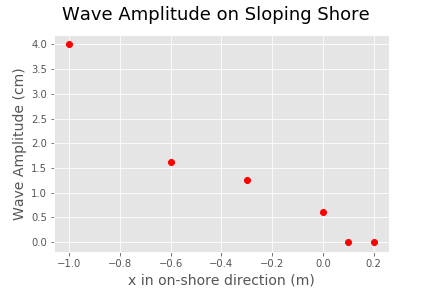
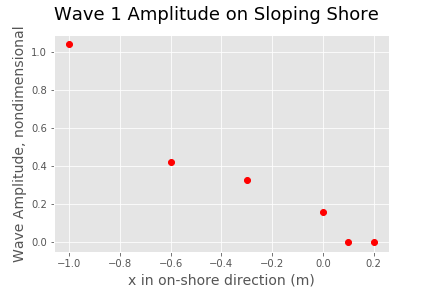
working on lab 3 still, trying to figure out theoretical graphs

Changed region(s): [[0.1204, 0.0, 0.8727, 0.0938], [0.0301, 0.0938, 0.1204, 0.9062]]

diff --git a/Lab_3.md b/Lab_3.md
@@ -33,80 +33,26 @@ The hydraulic-powered wave paddle in the DeFrees Lab was used to generate waves 
 | 0.1   | 19.2     | 1.92                                 |
 
 
-##### Non-dimensional plot of shoaling formula
+##### Non-dimensional plot of shoaling formula with experimental data
+
+Experimental data was compared with theoretical calculations using the shoaling formula.
 
 $$ C_{p0} = \frac{\lambda_0}{T} $$
 $$ T = \frac{1}{frequency} $$
 
-$$ C_{p1} = (1 + \frac{4\pi \frac{h}{\lambda}}{sinh(4\pi \frac{h}{\lambda})})(\frac{gT}{2\pi})tanh(\frac{2\pi h}{\lambda}) $$
-from Chapter 3 of the Coastal Engineering Manual, page II-3-13.
-
-```python
-slope = 1/10
-SWL_cm = 19.2
-H0_cm = np.array([7.7, 7.1, 4.5, 2.9])
-x_amp_m = np.array([-1, -0.6, -0.3, 0, 0.1, 0.2])
-W1_amp_cm = np.array([4.00, 1.63, 1.25, 0.6, 0, 0])
-W2_amp_cm = np.array([4.25, 1.90, 1.55, 1.10, 0.85, 0.3])
-W3_amp_cm = np.array([2.25, 2.05, 1.65, 0.9, 0.35, 0.25])
-W4_amp_cm = np.array([1.5, 1.7, 1.1, 0.75, 0.5, 0.25])
-W_lambda_cm = np.array([88.8, 148.75, 270.72, 270.72])
-freq = np.array([1.25, 0.85, 0.5, 0.5])
-T = 1/freq
-
-Cg0 = W_lambda_cm/T
-print(Cg0)
-```
 Constant width in the flume was assumed.
 
 In shallow water,
+
+$$ C_{g0} = C_{p0} $$
+$$ C_{p0} = \frac{\lambda_0}{T} $$
 $$ \frac{a(x)}{a_0} = \sqrt(\frac{C_{g0}}{\sqrt(gh(x))}) $$
 
-```Python
-h = np.linspace(0.001, 2, num = 50)
-h_h0 = h/(SWL_cm/100)
-```
+In transitional water, $C_{g0}$ changes by
+$$ n = \frac{1}{2}[1 + \frac{2kh}{sinh(2kh)}] $$
+$$ C_{g0} = nC_{p0} $$
 
-The nondimensional form is calculated by
-```Python
-W1_amp_nd = np.sqrt(Cg0[0])/(g.magnitude * h)**(1/4)
-W2_amp_nd = np.sqrt(Cg0[1])/(g.magnitude * h)**(1/4)
-W3_amp_nd = np.sqrt(Cg0[2])/(g.magnitude * h)**(1/4)
-W4_amp_nd = np.sqrt(Cg0[3])/(g.magnitude * h)**(1/4)
-
-plt.plot(h_h0, W1_amp_nd)
-plt.xlabel('Nondimensional Water Depth, h(x)/h0', fontsize=14)
-plt.ylabel('Nondimensional Shoaling Formula', fontsize=14)
-plt.suptitle('', fontsize=18)
-plt.savefig('W1_amp_nd.png')
-plt.show()
-
-plt.plot(h_h0, W2_amp_nd)
-plt.xlabel('Nondimensional Water Depth, h(x)/h0', fontsize=14)
-plt.ylabel('Nondimensional Shoaling Formula', fontsize=14)
-plt.suptitle('', fontsize=18)
-plt.savefig('W2_amp_nd.png')
-plt.show()
-
-plt.plot(h_h0, W3_amp_nd)
-plt.xlabel('Nondimensional Water Depth, h(x)/h0', fontsize=14)
-plt.ylabel('Nondimensional Shoaling Formula', fontsize=14)
-plt.suptitle('', fontsize=18)
-plt.savefig('W3_amp_nd.png')
-plt.show()
-
-plt.plot(h_h0, W4_amp_nd)
-plt.xlabel('Nondimensional Water Depth, h(x)/h0', fontsize=14)
-plt.ylabel('Nondimensional Shoaling Formula', fontsize=14)
-plt.suptitle('', fontsize=18)
-plt.savefig('W4_amp_nd.png')
-plt.show()
-```
-
-
-then, use experimental data and nondimensionalize it to compare with theoretical
-
-##### Experimental Data
+# NEED TO FIGURE OUT
 
 Experimental results for amplitude are shown below.
 | Case | $H_0$ (cm) | $a$ (cm) @ $x$=-1.0 m | $a$ (cm) @ $x$=-0.6 m | $a$ (cm) @ $x$=-0.3 m | $a$ (cm) @ $x$=0 m | $a$ (cm) @ $x$=0.1 m | $a$ (cm) @ $x$=0.2 m |
@@ -116,31 +62,103 @@ Experimental results for amplitude are shown below.
 | W3   | 4.5        | 2.25                  | 2.05                  | 1.65                  | 0.9                | 0.35                 | 0.25                     |
 | W4   | 2.9        | 1.5                   | 1.7                   | 1.1                   | 0.75               | 0.5                  | 0.25                 |
 
+
+
 ```python
-plt.plot(x_amp_m, W1_amp_cm, 'ro')
+slope = 1/10
+SWL_cm = 19.2
+H0_cm = np.array([7.7, 7.1, 4.5, 2.9])
+a0_cm = H0_cm / 2
+
+x_amp_m = np.array([-1, -0.6, -0.3, 0, 0.1, 0.2])
+
+W1_amp_cm = np.array([4.00, 1.63, 1.25, 0.6, 0, 0])
+W2_amp_cm = np.array([4.25, 1.90, 1.55, 1.10, 0.85, 0.3])
+W3_amp_cm = np.array([2.25, 2.05, 1.65, 0.9, 0.35, 0.25])
+W4_amp_cm = np.array([1.5, 1.7, 1.1, 0.75, 0.5, 0.25])
+
+W1_amp_nd = W1_amp_cm / a0_cm[0]
+W2_amp_nd = W2_amp_cm / a0_cm[1]
+W3_amp_nd = W3_amp_cm / a0_cm[2]
+W4_amp_nd = W4_amp_cm / a0_cm[3]
+
+W_lambda_cm = np.array([88.8, 148.75, 270.72, 270.72])
+freq = np.array([1.25, 0.85, 0.5, 0.5])
+T = 1/freq
+
+Cg0 = W_lambda_cm/T
+print(Cg0)
+
+x_plot_m = np.linspace(0.001, 1, num = 50)
+h_cm = x_plot_m / 10
+print(h_cm)
+h_m = h_cm * 10
+```
+
+The nondimensional form is calculated by
+```Python
+W1_amp_nd = np.sqrt(Cg0[0])/(g.magnitude * h_m)**(1/4)
+W2_amp_nd = np.sqrt(Cg0[1])/(g.magnitude * h_m)**(1/4)
+W3_amp_nd = np.sqrt(Cg0[2])/(g.magnitude * h_m)**(1/4)
+W4_amp_nd = np.sqrt(Cg0[3])/(g.magnitude * h_m)**(1/4)
+
+plt.plot(x_plot_m, W1_amp_nd)
+plt.xlabel('x opposite wave propagation (m)', fontsize=14)
+plt.ylabel('Nondimensional Shoaling Formula', fontsize=14)
+plt.suptitle('', fontsize=18)
+plt.savefig('W1_amp_nd.png')
+plt.show()
+
+plt.plot(x_plot_m, W2_amp_nd)
+plt.xlabel('x opposite wave propagation (m)', fontsize=14)
+plt.ylabel('Nondimensional Shoaling Formula', fontsize=14)
+plt.suptitle('', fontsize=18)
+plt.savefig('W2_amp_nd.png')
+plt.show()
+
+plt.plot(x_plot_m, W3_amp_nd)
+plt.xlabel('x opposite wave propagation (m)', fontsize=14)
+plt.ylabel('Nondimensional Shoaling Formula', fontsize=14)
+plt.suptitle('', fontsize=18)
+plt.savefig('W3_amp_nd.png')
+plt.show()
+
+plt.plot(x_plot_m, W4_amp_nd)
+plt.xlabel('x opposite wave propagation (m)', fontsize=14)
+plt.ylabel('Nondimensional Shoaling Formula', fontsize=14)
+plt.suptitle('', fontsize=18)
+plt.savefig('W4_amp_nd.png')
+plt.show()
+```
+
+##### Experimental Data
+
+
+```python
+plt.plot(x_amp_m, W1_amp_nd, 'ro')
 plt.xlabel('x in on-shore direction (m)', fontsize=14)
-plt.ylabel('Wave Amplitude (cm)', fontsize=14)
+plt.ylabel('Wave Amplitude, nondimensional', fontsize=14)
 plt.suptitle('Wave 1 Amplitude on Sloping Shore', fontsize=18)
 plt.savefig('W1_amp.png')
 plt.show()
 
-plt.plot(x_amp_m, W2_amp_cm, 'ro')
+plt.plot(x_amp_m, W2_amp_nd, 'ro')
 plt.xlabel('x in on-shore direction (m)', fontsize=14)
-plt.ylabel('Wave Amplitude (cm)', fontsize=14)
+plt.ylabel('Wave Amplitude, nondimensional', fontsize=14)
 plt.suptitle('Wave 2 Amplitude on Sloping Shore', fontsize=18)
 plt.savefig('W2_amp.png')
 plt.show()
 
-plt.plot(x_amp_m, W3_amp_cm, 'ro')
+plt.plot(x_amp_m, W3_amp_nd, 'ro')
 plt.xlabel('x in on-shore direction (m)', fontsize=14)
-plt.ylabel('Wave Amplitude (cm)', fontsize=14)
+plt.ylabel('Wave Amplitude, nondimensional', fontsize=14)
 plt.suptitle('Wave 3 Amplitude on Sloping Shore', fontsize=18)
 plt.savefig('W3_amp.png')
 plt.show()
 
-plt.plot(x_amp_m, W4_amp_cm, 'ro')
+plt.plot(x_amp_m, W4_amp_nd, 'ro')
 plt.xlabel('x in on-shore direction (m)', fontsize=14)
-plt.ylabel('Wave Amplitude (cm)', fontsize=14)
+plt.ylabel('Wave Amplitude, nondimensional', fontsize=14)
 plt.suptitle('Wave 4 Amplitude on Sloping Shore', fontsize=18)
 plt.savefig('W4_amp.png')
 plt.show()
@@ -169,6 +187,7 @@ print(iribarren)
 ```
 
 Experimental results for breaker type are shown below. $\lambda$ was measured experimentally and $\xi$ was calculated using the above equation.
+
 | Case | $\lambda_0$ (cm) | $\xi$ | Predicted Breaker Type | Observed breaker Type |
 | ---- | ---------------- | ----- | ---------------------- | --------------------- |
 | W1   | 88.80            | 0.339 | Spilling               | Spilling              |
